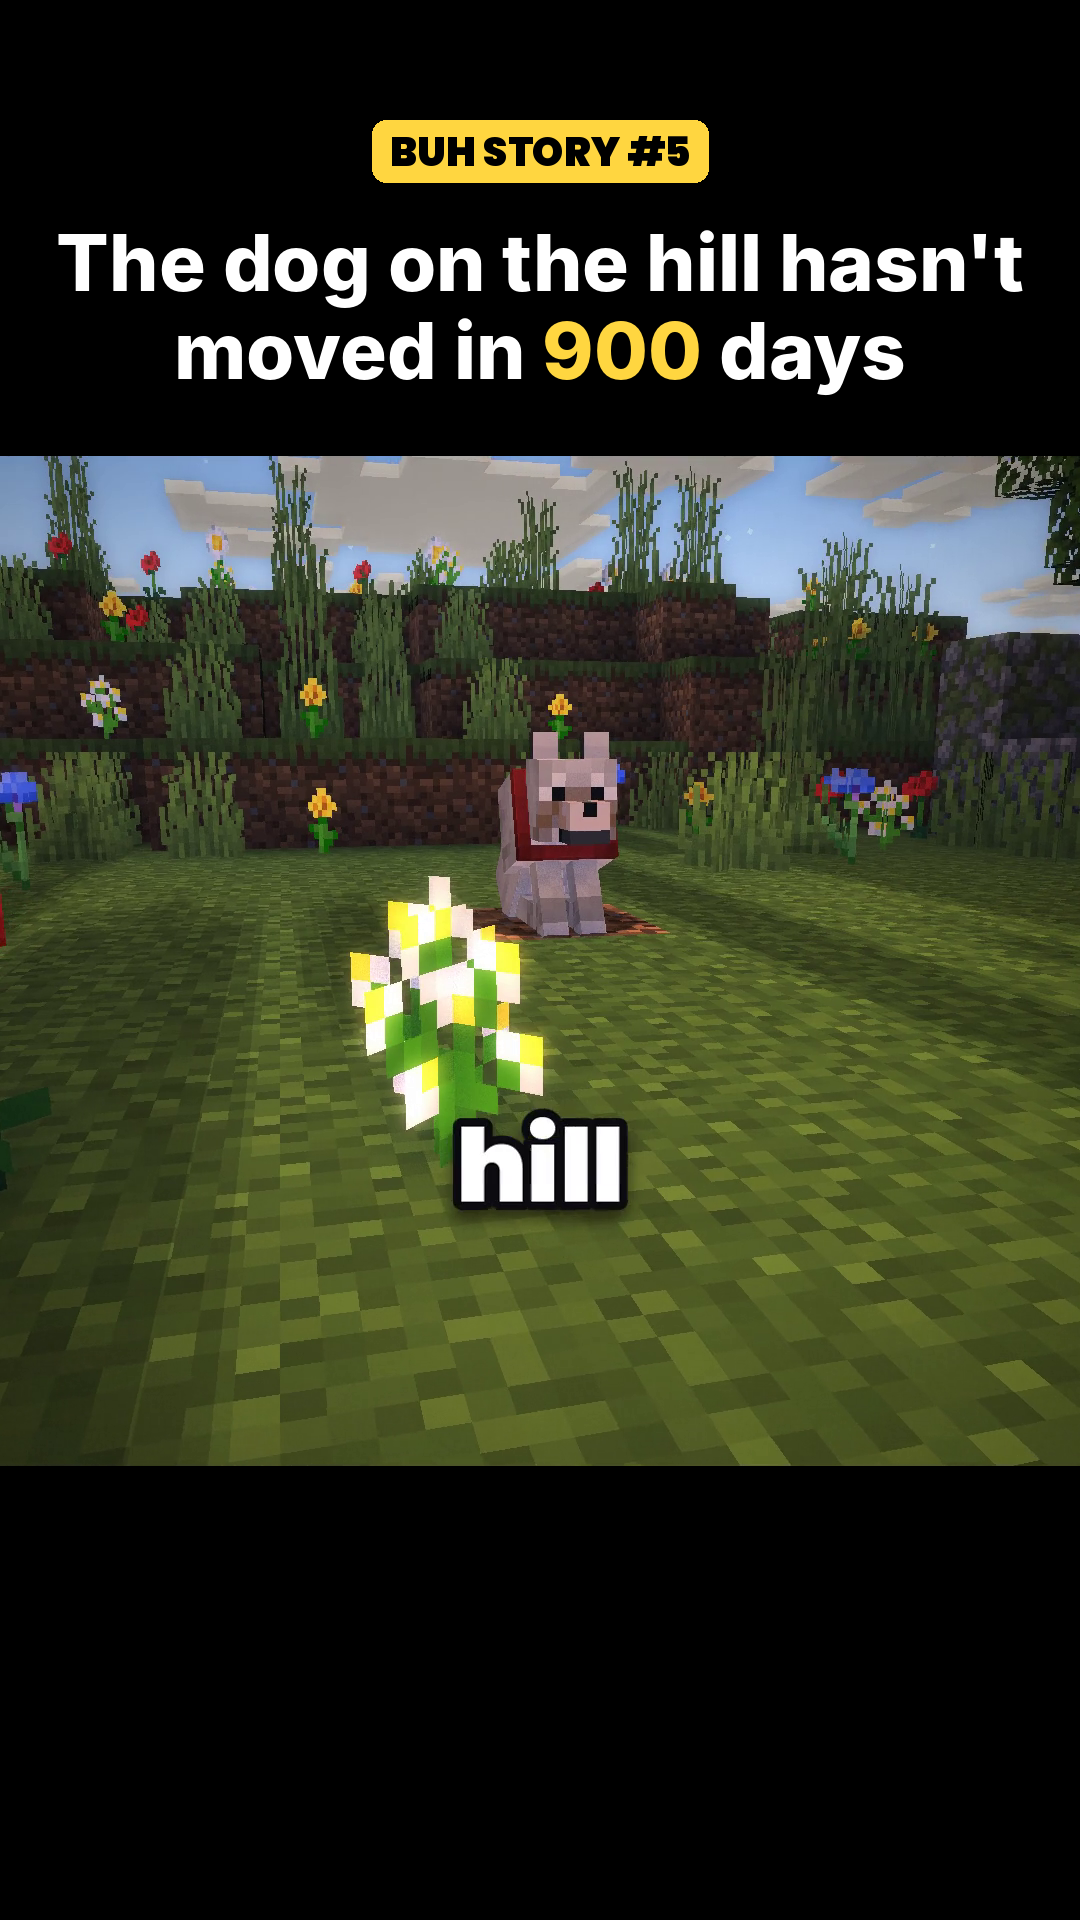
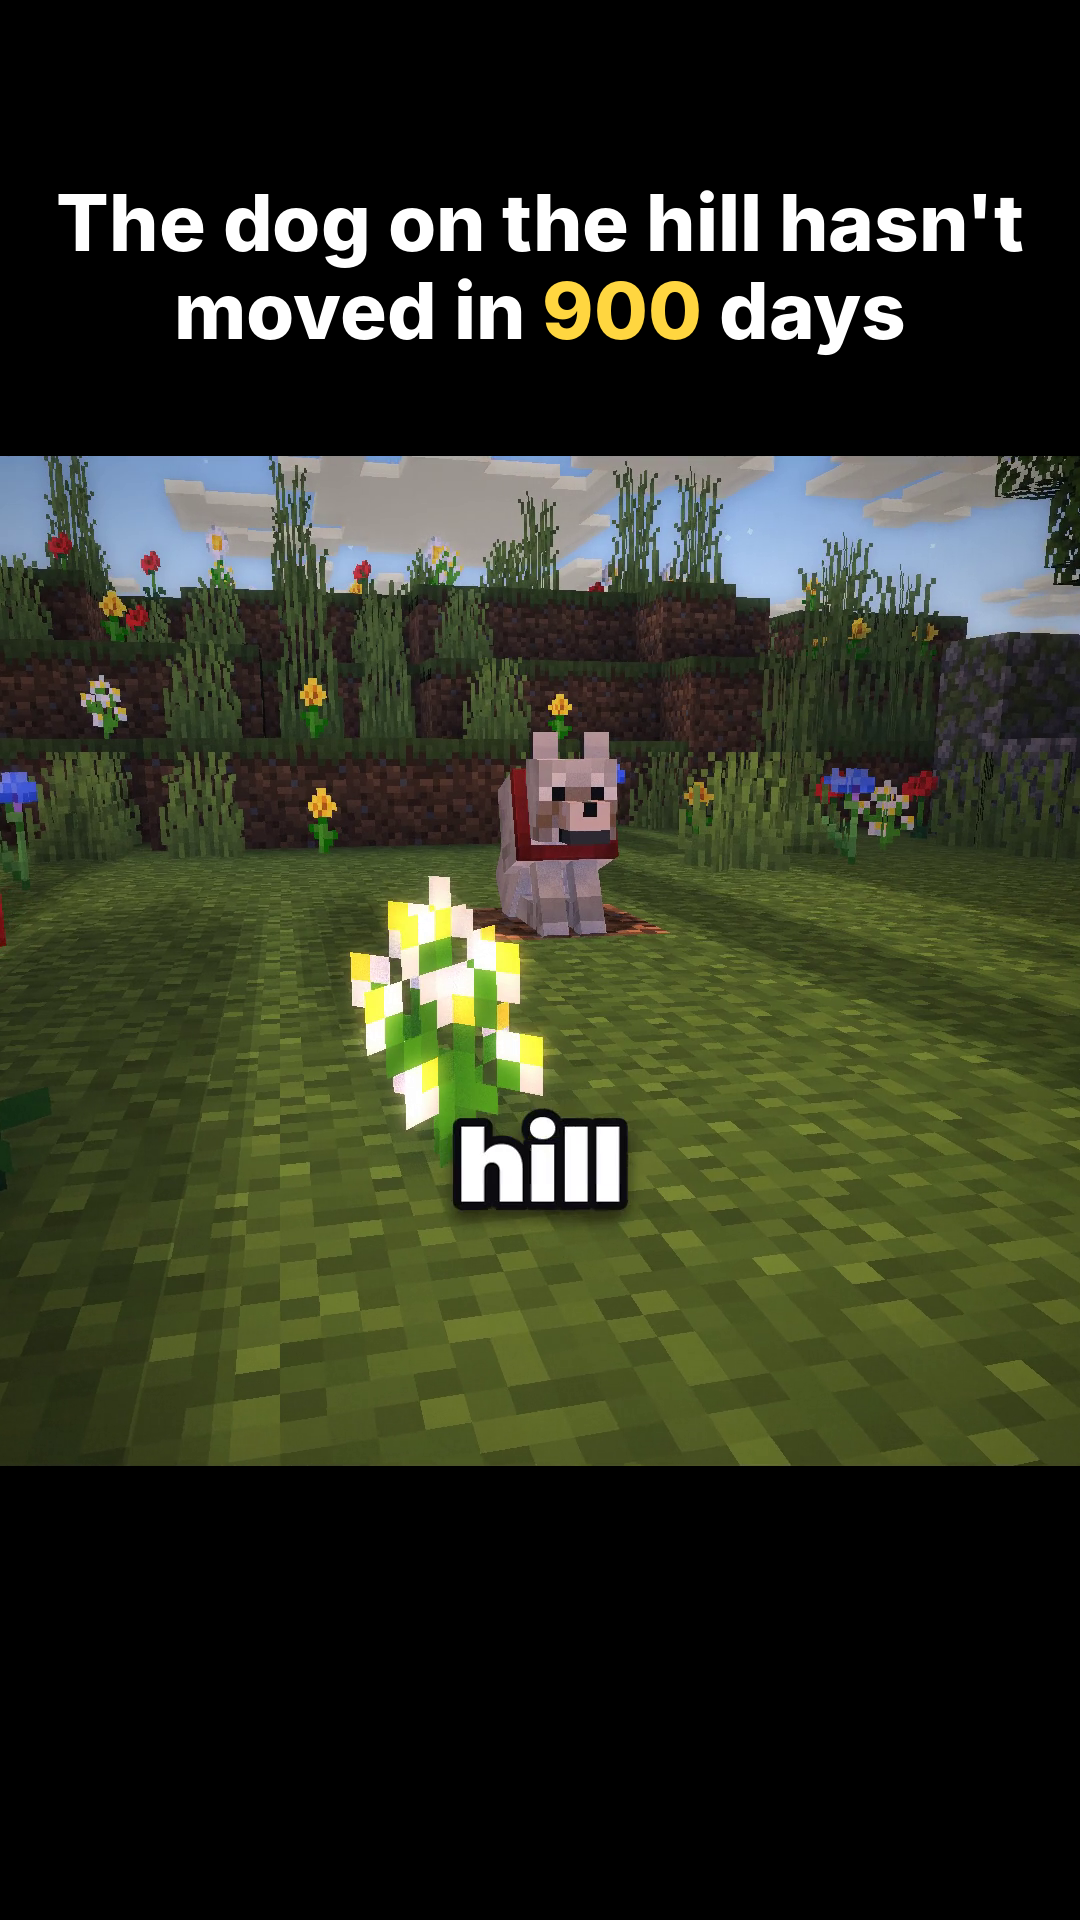
Buh Stories: no series pill or number (r:rc0d90d); promise and description without 'told by someone who lived it' (r:r808cba)
Cover frame shows only the story's hook, centred in the band; titles are '<hook> <emoji> #minecraft #shorts'
(the channel name and #buhstories carry the brand); release order kept as a list. Promise: 'Short Minecraft
stories.' Description: 'Short Minecraft stories: a village that carpets every road, ...'.

Claude-Session: https://claude.ai/code/session_019n1tKFHaqGQVYXgHuLmwJG

Changed region(s): [[0.0611, 0.0625, 0.9472, 0.2188]]

diff --git a/scripts/buh_stories_art.py b/scripts/buh_stories_art.py
@@ -5,7 +5,7 @@ Type is Poppins Black (the story captions' font, assets/fonts) in white with Buh
     python3 scripts/buh_stories_art.py banner  <banner_still 2560x1440> out.png [--guides]
     python3 scripts/buh_stories_art.py avatar  <avatar_still 800x800>   out.png [--guides]
     python3 scripts/buh_stories_art.py mark    <avatar_still 800x800>   out.png            (150x150 watermark)
-    python3 scripts/buh_stories_art.py cover   <a story Short's frame 1080x1920> out.png --n 1 --title "..." [--key WORD]
+    python3 scripts/buh_stories_art.py cover   <a story Short's frame 1080x1920> out.png --title "..." [--key WORD]
 
 --guides draws YouTube's safe band (banner: 1546x423 in the middle) or the avatar's circle crop on a copy.
 """
@@ -75,20 +75,14 @@ def mark(src, out):
     o.resize((150, 150), Image.LANCZOS).save(out)
 
 
-def cover(src, out, n, title, key):
+def cover(src, out, title, key):
     """A story Short's first frame in the Buh Stories style: the format's 1080x1920 layout (edit.py: black bands, the
-    game view 1080x1011 at y 455), the title in the top band with its key word in gold and a gold kicker over it,
-    and the watermark in the bottom band."""
+    game view 1080x1011 at y 455), the title (the story's hook) centred in the top band with its key word in gold.
+    No series pill or number (owner: "Do we need BUH STORY #5?"): the channel name and #buhstories carry the brand."""
     im = Image.open(src).convert("RGB").resize((1080, 1920)).convert("RGBA")
     d = ImageDraw.Draw(im)
     d.rectangle((0, 0, 1080, 455), fill=(0, 0, 0, 255))
     d.rectangle((0, 1466, 1080, 1920), fill=(0, 0, 0, 255))
-    kick = ImageFont.truetype(POPPINS, 40)
-    k = f"BUH STORY #{n}"
-    kw = d.textlength(k, font=kick)
-    pad = 18
-    d.rounded_rectangle(((1080 - kw) / 2 - pad, 120, (1080 + kw) / 2 + pad, 120 + 62), 14, fill=GOLD + (255,))
-    d.text(((1080 - kw) / 2, 124), k, font=kick, fill=(0, 0, 0, 255))
     f = ImageFont.truetype(INTER, 78)
     words = title.split()
     width = lambda ws: d.textlength(" ".join(ws), font=f)
@@ -97,7 +91,7 @@ def cover(src, out, n, title, key):
     else:   # two balanced lines (as edit.py's caption): the split with the narrower longer line
         k = min(range(1, len(words)), key=lambda i: max(width(words[:i]), width(words[i:])))
         lines = [words[:k], words[k:]]
-    y = 215 + (2 - len(lines)) * 44
+    y = 271 - len(lines) * 88 / 2 - 8   # centred on edit.py's CAPTION_Y
     sp = d.textlength(" ", font=f)
     for ln in lines:
         tw = sum(d.textlength(w, font=f) for w in ln) + sp * (len(ln) - 1)
@@ -115,7 +109,6 @@ def main():
     ap.add_argument("src")
     ap.add_argument("out")
     ap.add_argument("--guides", action="store_true")
-    ap.add_argument("--n", type=int, default=1)
     ap.add_argument("--title", default="")
     ap.add_argument("--key", default="")
     a = ap.parse_args()
@@ -126,7 +119,7 @@ def main():
     elif a.kind == "mark":
         mark(a.src, a.out)
     else:
-        cover(a.src, a.out, a.n, a.title, a.key)
+        cover(a.src, a.out, a.title, a.key)
 
 
 if __name__ == "__main__":

diff --git a/docs/brand.md b/docs/brand.md
@@ -239,7 +239,7 @@ The art is in `brand/buh_stories/`, the review page is linked from the session r
   2. @TheBuhStories
   3. @HelloBuhStories (ties it to the main channel, but it's long)
   4. "Tales from Hushwell" @HushwellTales (a world name instead of the hero; good if "Buh" is taken)
-- **Promise (one line):** *Short Minecraft stories, told by the kid who lived them.* Every story stands alone (owner,
+- **Promise (one line):** *Short Minecraft stories.* (No "told by someone who lived it", r:r808cba.) Every story stands alone (owner,
   2026-11-11: no shared-world or connected-stories framing, r:rca5363; "just do stories", r:rae1fcc). Each story can still be a
   mystery: its own title, video description and pinned question set it up; the channel's own copy says "stories".
 - **Who's talking:** Pip's voice: a happy, bubbly kid who's figuring the world out and tells you the strange thing
@@ -257,27 +257,26 @@ The art is in `brand/buh_stories/`, the review page is linked from the session r
   the channel is, nothing more).
 - **Watermark** `watermark.png` (150x150): the avatar in a Buh-gold ring, transparent outside.
 - **First frame / title band** `cover_dog_hill.png`: the Short format unchanged (black bands, game view 1080x1011),
-  plus a gold "BUH STORY #N" pill over the title. The title is white Inter ExtraBold (edit.py's band font), with its
+  with only the story's hook in the top band (no series pill or number: owner, r:rc0d90d). The title is white Inter ExtraBold (edit.py's band font), with its
   key word in Buh gold instead of red, and two balanced lines at most. The game view's first frame follows the opening
   rule above: line 1's subject is already moving.
-- **Colours:** the palette above. Buh gold `#FFD640` is the accent everywhere (the title key word, the kicker, the
+- **Colours:** the palette above. Buh gold `#FFD640` is the accent everywhere (the title key word, the
   ring, the caption key colour), white for text, night `#1B2030`, dusk `#BC624A`. Captions as in STANDARDS 6:
   Poppins Black, with the brand key colour.
 - Commands: `brand/buh_stories/README.md`.
 
 ## Titles
-**Format: `<line 1's hook, lowercase> <emoji> | Buh Story #N #minecraft #shorts`.** The hook goes first, because feed
-titles are cut at about 40-60 characters (thin evidence, see above). The series tag goes after it, and the cover's
-gold pill carries the number on the video itself. The number counts releases on this channel. If the owner prefers
-the series tag first ("Buh Story #N: ..."), it's a one-line change.
+**Format: `<line 1's hook, lowercase> <emoji> #minecraft #shorts`.** No series tag or number (owner, "Do we need
+BUH STORY #5? It can just be in the title? or idk"): the channel name and #buhstories carry the brand. The hook
+comes first because feed titles are cut at about 40-60 characters (thin evidence, see above).
 
-| # (suggested release order) | story | title | cover title (band) |
+| suggested release order | story | title | cover title (band) |
 |---|---|---|---|
-| 1 | Light Sleeper | my village is covered in 9,000 carpets 😶 \| Buh Story #1 #minecraft #shorts | My village is covered in 9,000 **carpets** |
-| 2 | Good Boy | my human tried to lose me 37 times 🐺 \| Buh Story #2 #minecraft #shorts | My human has tried to lose me 37 **times** |
-| 3 | Thirty-One Raids | grandpa won 31 raids. he started all of them 😳 \| Buh Story #3 #minecraft #shorts | Thirty-one raids. Every one started the night Grandpa came **home** |
-| 4 | Gold for the Portal | my grandma has thrown 9,000 gold into a portal 🪙 \| Buh Story #4 #minecraft #shorts | My grandma has thrown 9,000 gold into a **portal** |
-| 5 | Dog on the Hill | the dog on the hill hasn't moved in 900 days 🐕 \| Buh Story #5 #minecraft #shorts | The dog on the hill hasn't moved in **900** days |
+| 1 | Light Sleeper | my village is covered in 9,000 carpets 😶 #minecraft #shorts | My village is covered in 9,000 **carpets** |
+| 2 | Good Boy | my human tried to lose me 37 times 🐺 #minecraft #shorts | My human has tried to lose me 37 **times** |
+| 3 | Thirty-One Raids | grandpa won 31 raids. he started all of them 😳 #minecraft #shorts | Thirty-one raids. Every one started the night Grandpa came **home** |
+| 4 | Gold for the Portal | my grandma has thrown 9,000 gold into a portal 🪙 #minecraft #shorts | My grandma has thrown 9,000 gold into a **portal** |
+| 5 | Dog on the Hill | the dog on the hill hasn't moved in 900 days 🐕 #minecraft #shorts | The dog on the hill hasn't moved in **900** days |
 
 Why this order: Light Sleeper is the strongest hook and the bar, so it opens the channel. After that the order is free,
 because each story stands alone; the two dog stories (Good Boy, Dog on the Hill) are kept apart so the feed stays
@@ -292,9 +291,9 @@ varied. Raids' title gives away less than its twist; check it against the final 
 
 ## Description, tags, playlists
 - **Channel description:**
-  "Short Minecraft stories, each told by someone who lived it: a village that carpets every
+  "Short Minecraft stories: a village that carpets every
   road, a grandpa who has won every raid, a dog who never stops waiting. Most of them have a secret. Made in vanilla Minecraft. Fiction, every word. More Minecraft chaos on @HelloBuh."
-- **Video description template:** line 1 = the hook, then "Buh Story #N.", the
+- **Video description template:** line 1 = the hook, then the
   pinned question, the music credit, then `#minecraft #shorts #minecraftstory #buhstories`.
 - **Hashtags:** #minecraft #shorts #minecraftstory #buhstories (four at most; the first three show above the title).
 - **Keywords (channel and video tags):** minecraft story, minecraft stories, minecraft shorts, minecraft mystery,

diff --git a/brand/buh_stories/README.md b/brand/buh_stories/README.md
@@ -8,4 +8,4 @@ Rendered with our own renderer from the published Dog on the Hill recording
 | avatar.png | 800x800 | `scripts/still.py dog_hill.rec.json avatar_raw.png --at 2 --size 800x800 --ss 1.5 --time 12700 --look "$(cat docs/brand/look_golden.json)" --shot '{"at": [3.4, 1.2, 1.6], "look": [0.55, 1.5, 0.55], "fov": 23, "drift": 0}'`, then `scripts/buh_stories_art.py avatar` |
 | banner.jpg | 2560x1440 | `scripts/still.py dog_hill.rec.json banner_raw.png --at 2 --size 2560x1440 --time 12750 --look ... --shot '{"at": [9,1.25,0.6], "look": [0.5,1.75,1.3], "fov": 34, "drift": 0, "dof": false}'`, then `scripts/buh_stories_art.py banner` (`--guides` shows the 1546x423 safe band) |
 | watermark.png | 150x150 | `scripts/buh_stories_art.py mark avatar_raw.png watermark.png` |
-| cover_dog_hill.png | 1080x1920 | the published Dog on the Hill Short's frame at 0.6 s, `scripts/buh_stories_art.py cover frame.png out.png --n 5 --title "..." --key 900` |
+| cover_dog_hill.png | 1080x1920 | the published Dog on the Hill Short's frame at 0.6 s, `scripts/buh_stories_art.py cover frame.png out.png --title "..." --key 900` |
